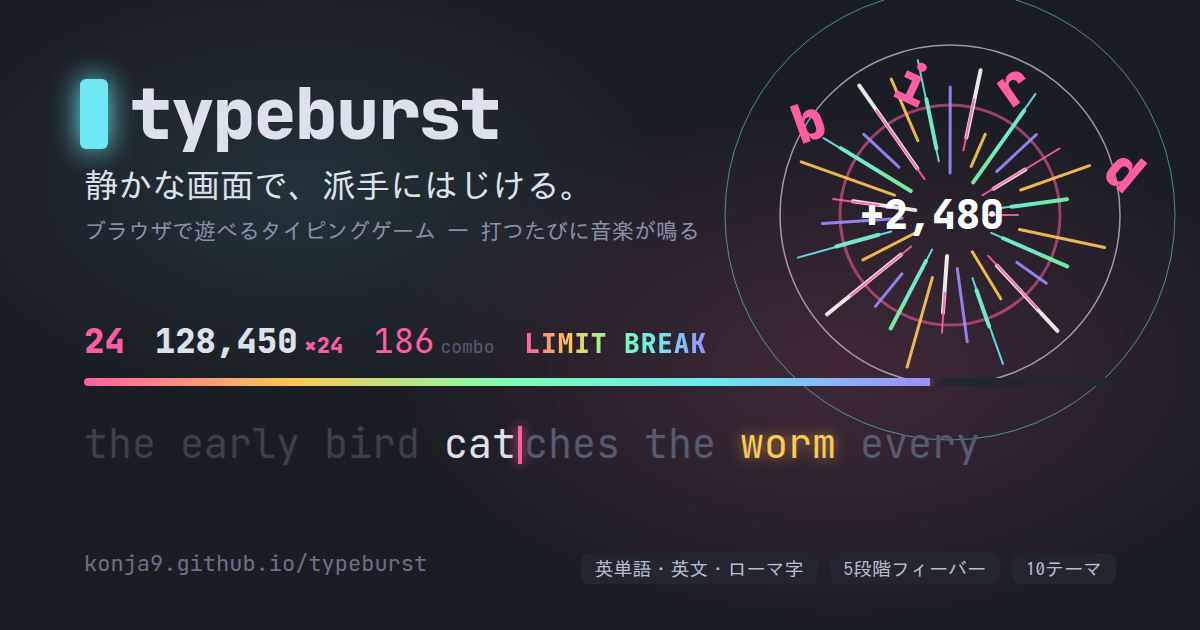
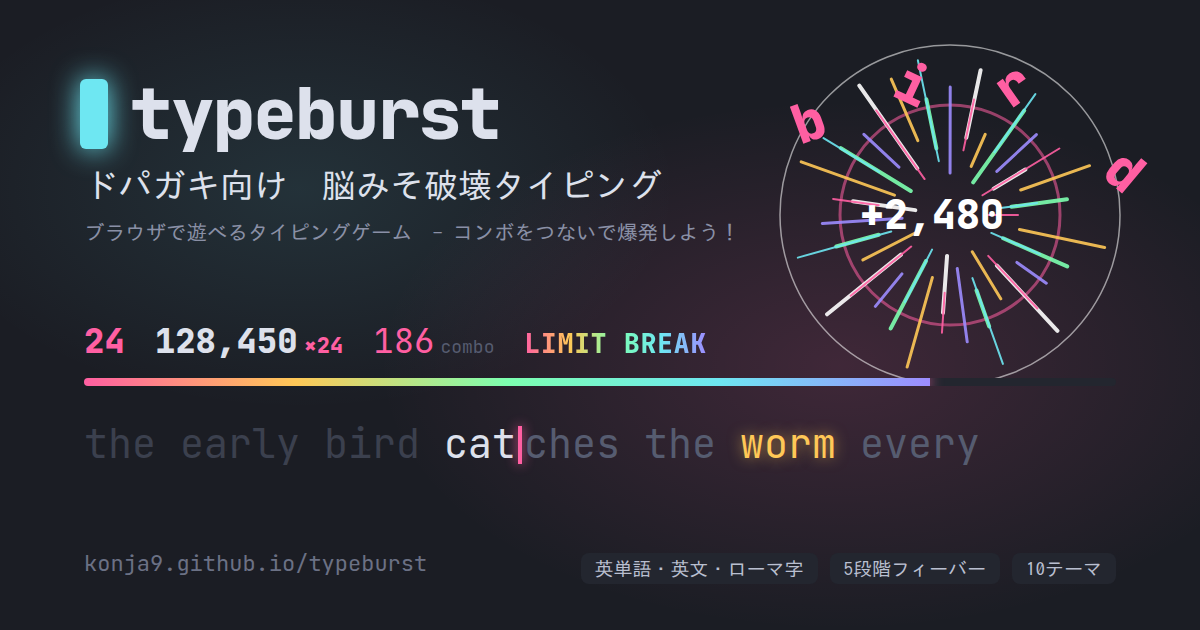
プレビュー画像の文言を変更
キャッチコピーを「ドパガキ向け　脳みそ破壊タイピング」、説明を
「ブラウザで遊べるタイピングゲーム　- コンボをつないで爆発しよう！」に変えた。
説明の行が火花の輪に重ならないよう、外側の輪を外して文字を少し小さくした。
各サービスのキャッシュに古い画像が残らないよう、画像のURLに ?v=2 を付けた。

Claude-Session: https://claude.ai/code/session_01CVGGeZE6Bwyz11DDheF9hC

Changed region(s): [[0.0617, 0.2714, 0.6167, 0.3921]]

diff --git a/index.html b/index.html
@@ -14,7 +14,7 @@
 <meta property="og:title" content="typeburst ― 派手にはじけるタイピングゲーム">
 <meta property="og:description" content="静かな画面で、派手にはじける。打つたびに音楽が鳴る、ブラウザで遊べるタイピングゲーム。">
 <meta property="og:url" content="https://konja9.github.io/typeburst/">
-<meta property="og:image" content="https://konja9.github.io/typeburst/og-image.png">
+<meta property="og:image" content="https://konja9.github.io/typeburst/og-image.png?v=2">
 <meta property="og:image:width" content="1200">
 <meta property="og:image:height" content="630">
 <meta property="og:image:alt" content="typeburst のプレイ画面のイメージ：単語が砕けて火花が散り、LIMIT BREAK と表示されている">
